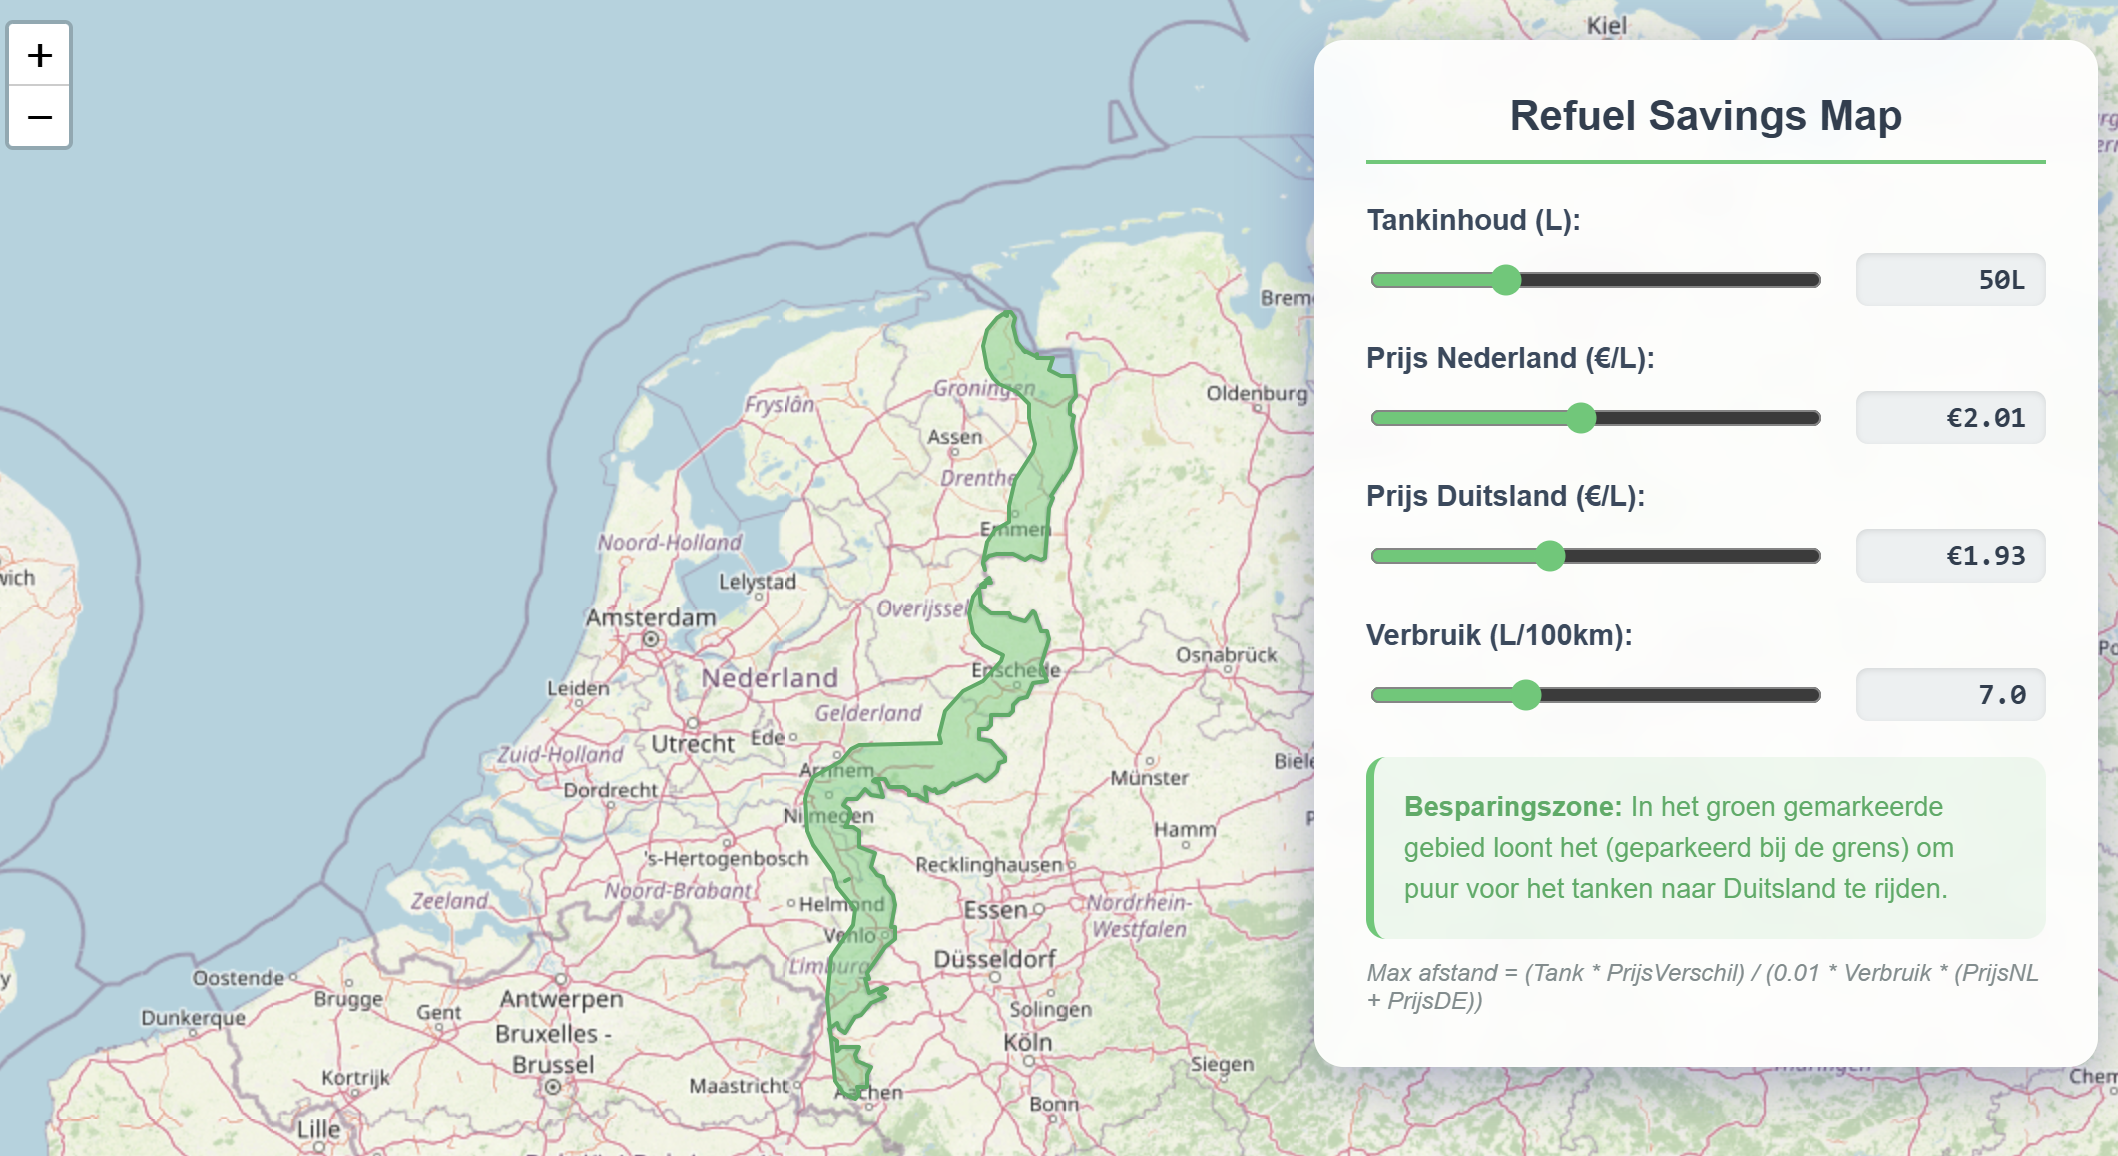
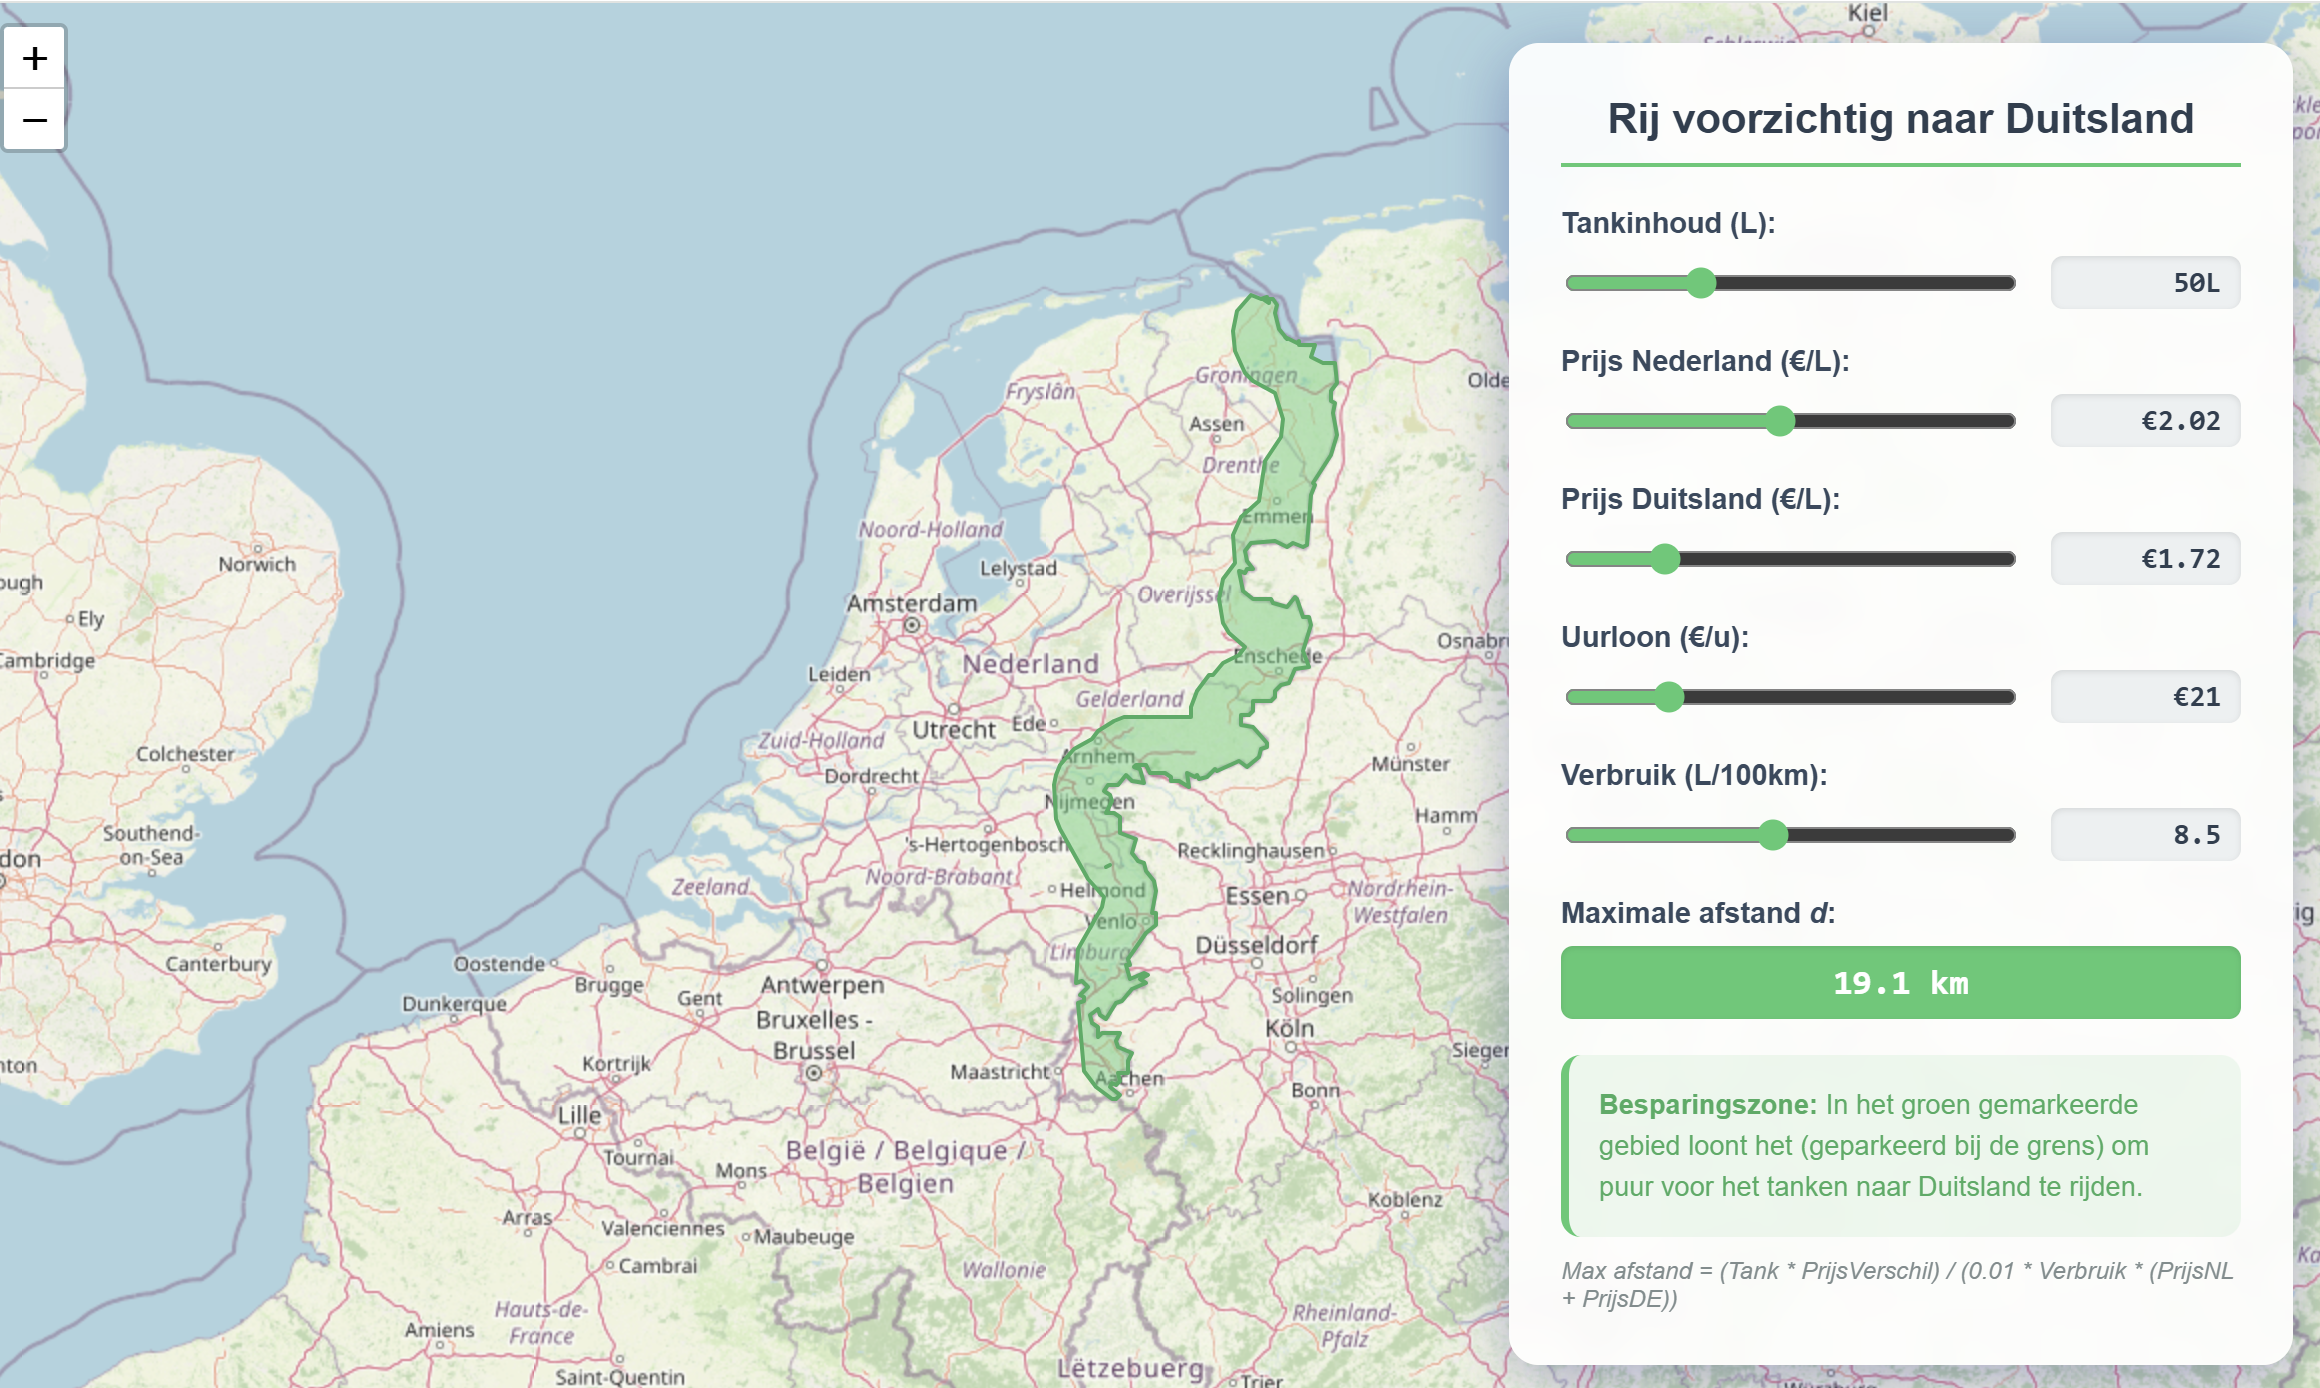
kaart en uurloon

diff --git a/index.html b/index.html
@@ -148,6 +148,14 @@
         </div>
 
         <div class="control-group">
+            <label for="wage">Uurloon (€/u):</label>
+            <div class="slider-container">
+                <input type="range" id="wage" min="0" max="100" step="1" value="25">
+                <span class="value-display" id="wage-val">€25</span>
+            </div>
+        </div>
+
+        <div class="control-group">
             <label for="consumption">Verbruik (L/100km):</label>
             <div class="slider-container">
                 <input type="range" id="consumption" min="3" max="15" step="0.1" value="7.0">
@@ -201,10 +209,12 @@
                 priceNl: document.getElementById('price-nl'),
                 priceDe: document.getElementById('price-de'),
                 consumption: document.getElementById('consumption'),
+                wage: document.getElementById('wage'),
                 tankVal: document.getElementById('tank-val'),
                 priceNlVal: document.getElementById('price-nl-val'),
                 priceDeVal: document.getElementById('price-de-val'),
                 consumptionVal: document.getElementById('consumption-val'),
+                wageVal: document.getElementById('wage-val'),
                 distanceVal: document.getElementById('distance-val')
             };
 
@@ -214,19 +224,26 @@
                 const pNl = parseFloat(elements.priceNl.value);
                 const pDe = parseFloat(elements.priceDe.value);
                 const cons = parseFloat(elements.consumption.value);
+                const wage = parseFloat(elements.wage.value);
+                const speed = 90; // km/h
 
                 // Update text
                 elements.tankVal.textContent = tank + 'L';
                 elements.priceNlVal.textContent = '€' + pNl.toFixed(2);
                 elements.priceDeVal.textContent = '€' + pDe.toFixed(2);
                 elements.consumptionVal.textContent = cons.toFixed(1);
+                elements.wageVal.textContent = '€' + wage;
 
                 // Calculate max one-way distance
-                // Savings = Tank*(pNl-pDe) - (d/100 * cons * pNl) - (d/100 * cons * pDe)
-                // Set savings = 0 => d = [Tank * (pNl-pDe)] / [0.01 * cons * (pNl + pDe)]
+                // Savings = Tank*(pNl-pDe) - Costs_of_Driving
+                // Costs_of_Driving = Costs_Fuel + Costs_Time
+                // Costs_Fuel = (d/100 * cons * pNl) + (d/100 * cons * pDe) = 0.01 * d * cons * (pNl + pDe)
+                // Costs_Time = Time * wage = (2 * d / speed) * wage
+                // Set savings = 0 => Tank * (pNl - pDe) = d * [0.01 * cons * (pNl + pDe) + 2 * wage / speed]
                 let distance = 0;
                 if (pNl > pDe) {
-                    distance = (tank * (pNl - pDe)) / (0.01 * cons * (pNl + pDe));
+                    const denominator = (0.01 * cons * (pNl + pDe)) + (2 * wage / speed);
+                    distance = (tank * (pNl - pDe)) / denominator;
                 }
 
                 elements.distanceVal.textContent = distance.toFixed(1) + ' km';
@@ -244,7 +261,7 @@
             }
 
             // 5. Events
-            [elements.tank, elements.priceNl, elements.priceDe, elements.consumption].forEach(el => {
+            [elements.tank, elements.priceNl, elements.priceDe, elements.consumption, elements.wage].forEach(el => {
                 el.addEventListener('input', update);
             });
 

diff --git a/README.md b/README.md
@@ -22,6 +22,8 @@ De kaart berekent de maximale afstand $d$ (enkele reis) die je kunt rijden naar 
 - $P_{NL}$: Benzineprijs in Nederland (€/L)
 - $P_{DE}$: Benzineprijs in Duitsland (€/L)
 - $C$: Verbruik van de auto (L/100km)
+- $W$: Uurloon (€/u) (bijv. €25/u)
+- $S$: Gemiddelde snelheid naar de grens (90 km/u)
 - $d$: Afstand naar de grens in kilometers
 
 ### Logica:
@@ -33,27 +35,29 @@ $$Kosten_{NL} = Kosten_{DE} + Kosten_{Rit}$$
    $$T \cdot P_{NL}$$
 2. **Kosten DE**: Je vult de hele tank tegen de Duitse prijs.
    $$T \cdot P_{DE}$$
-3. **Kosten Rit**: Je rijdt $d$ kilometer naar Duitsland met Nederlandse brandstof en $d$ kilometer terug met de goedkopere Duitse brandstof.
+3. **Kosten Rit**: De totale kosten van de rit bestaan uit brandstofverbruik en de waarde van de tijd (uurloon).
    $$\text{Verbruik per km} = \frac{C}{100} = 0.01 \cdot C$$
-   $$\text{Kosten heenreis} = d \cdot (0.01 \cdot C) \cdot P_{NL}$$
-   $$\text{Kosten terugreis} = d \cdot (0.01 \cdot C) \cdot P_{DE}$$
-   $$Kosten_{Rit} = 0.01 \cdot d \cdot C \cdot (P_{NL} + P_{DE})$$
+   $$\text{Brandstof heen/terug} = d \cdot (0.01 \cdot C) \cdot (P_{NL} + P_{DE})$$
+   $$\text{Tijdskosten} = \text{reistijd} \cdot W = \frac{2 \cdot d}{S} \cdot W$$
+   $$Kosten_{Rit} = d \cdot [0.01 \cdot C \cdot (P_{NL} + P_{DE}) + \frac{2 \cdot W}{S}]$$
 
 ### De vergelijking oplossen voor $d$:
 $$T \cdot P_{NL} = T \cdot P_{DE} + 0.01 \cdot d \cdot C \cdot (P_{NL} + P_{DE})$$
 
-$$T \cdot (P_{NL} - P_{DE}) = 0.01 \cdot d \cdot C \cdot (P_{NL} + P_{DE})$$
+$$T \cdot (P_{NL} - P_{DE}) = d \cdot [0.01 \cdot C \cdot (P_{NL} + P_{DE}) + \frac{2 \cdot W}{S}]$$
 
-$$d = \frac{T \cdot (P_{NL} - P_{DE})}{0.01 \cdot C \cdot (P_{NL} + P_{DE})}$$
+$$d = \frac{T \cdot (P_{NL} - P_{DE})}{0.01 \cdot C \cdot (P_{NL} + P_{DE}) + \frac{2 \cdot W}{S}}$$
 
 ### Voorbeeld:
 - Tank: **50L**
 - Prijsverschil: **€0.30** (€2.02 vs €1.72)
 - Verbruik: **7.0 L/100km**
+- Uurloon: **€25/u**
+- Snelheid: **90 km/u**
 
-$$d = \frac{50 \cdot 0.30}{0.01 \cdot 7.0 \cdot (2.02 + 1.72)} = \frac{15}{0.2618} \approx \mathbf{57.3 \text{ km}}$$
+$$d = \frac{50 \cdot 0.30}{0.01 \cdot 7.0 \cdot (2.02 + 1.72) + \frac{2 \cdot 25}{90}} = \frac{15}{0.2618 + 0.5556} \approx \mathbf{18.4 \text{ km}}$$
 
-In dit scenario loont het dus om tot 57 kilometer van de grens naar Duitsland te rijden.
+In dit scenario loont het dus om tot 18 kilometer van de grens naar Duitsland te rijden. Zonder uurloon was dit 57 km geweest!
 
 ## 🛠 Technologie
 - **HTML5/CSS3**: Voor de interface en sliders.
